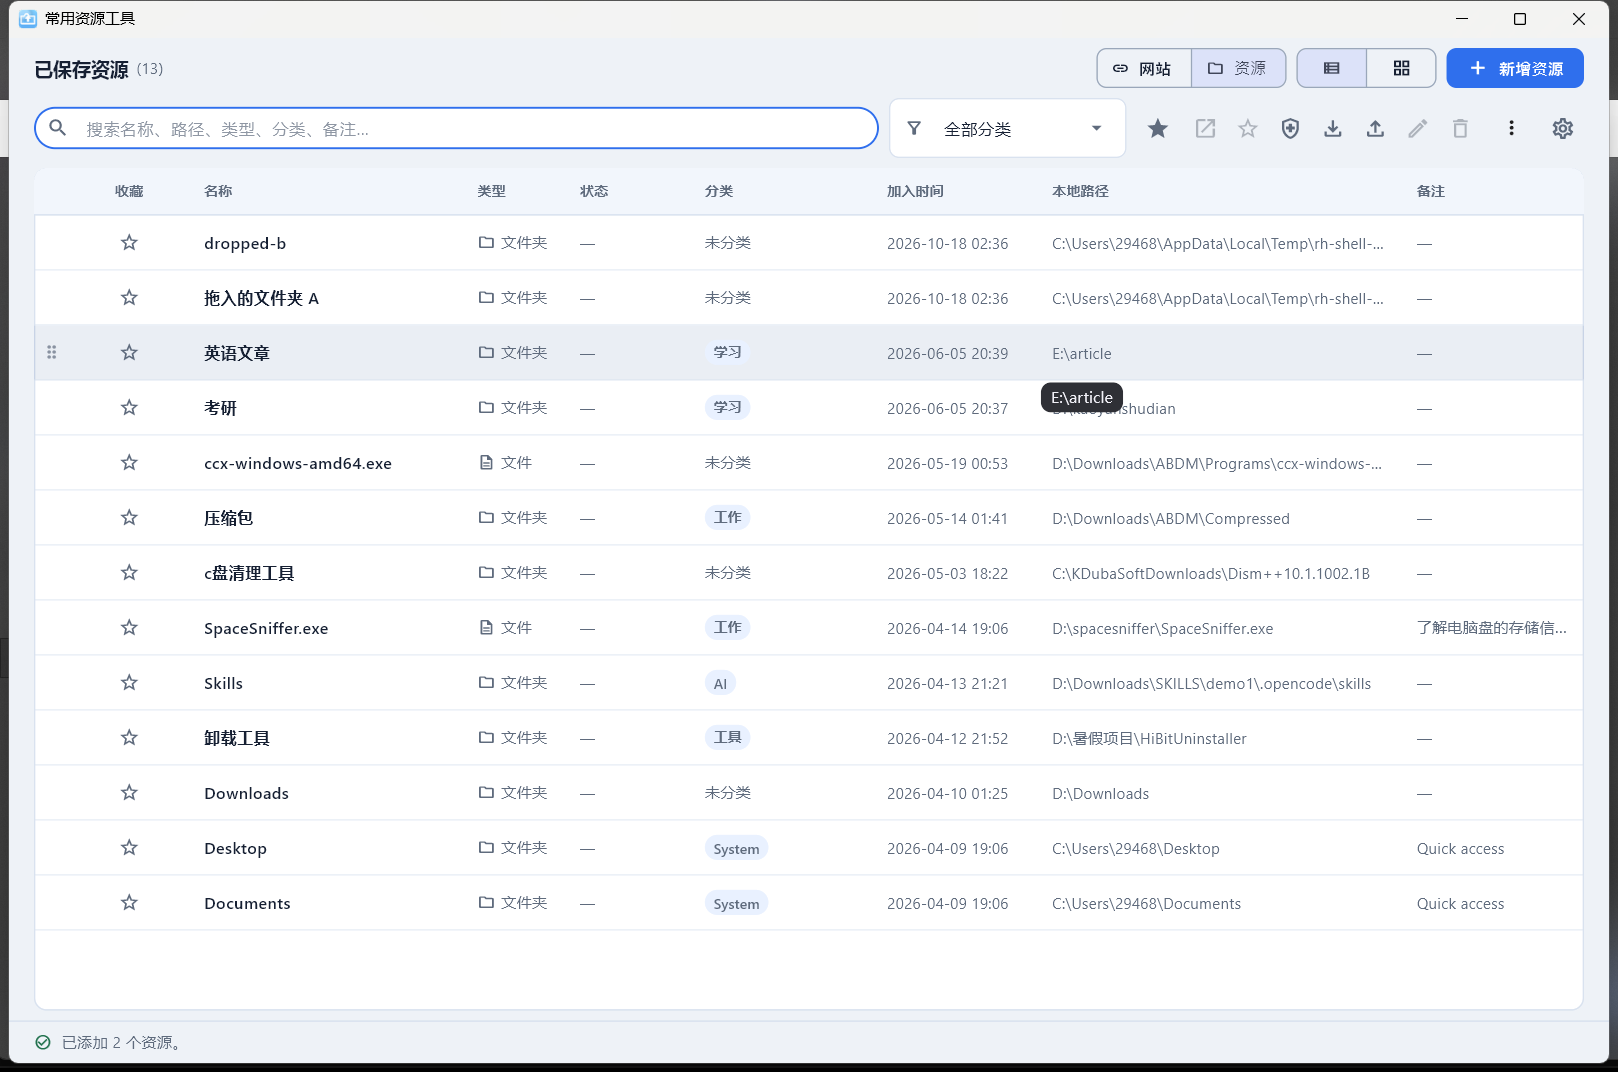
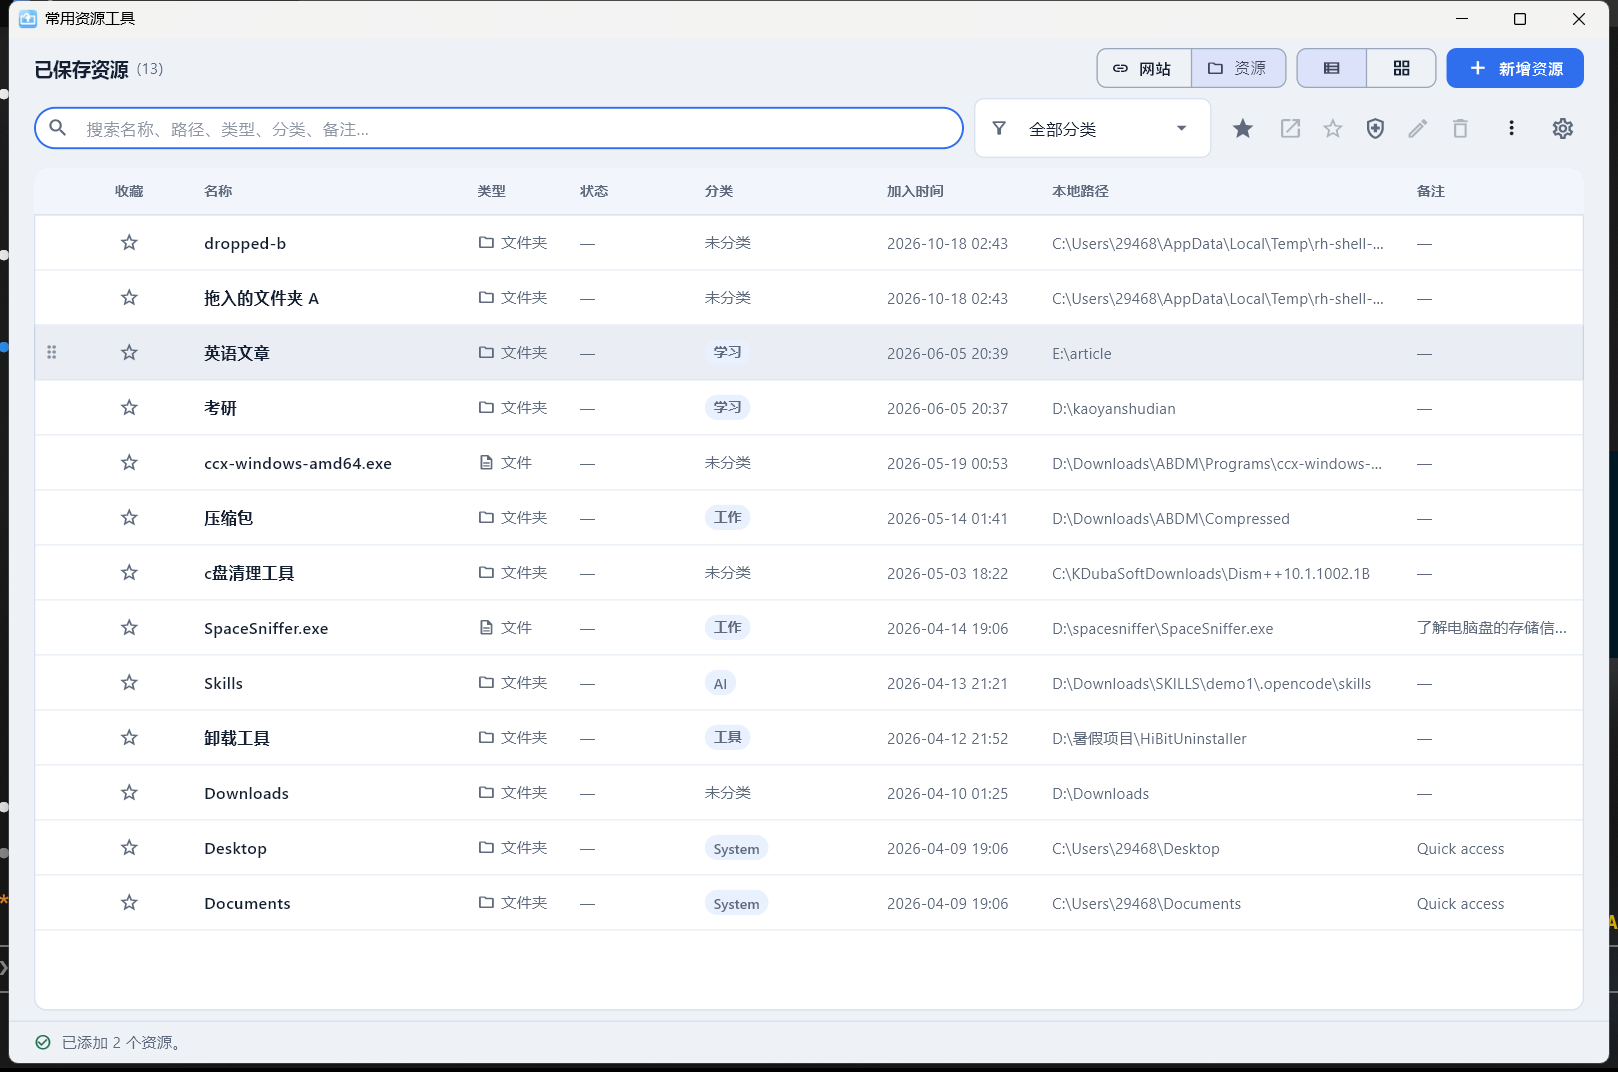
refactor: move export/import from the toolbar into the overflow menu
The two standalone backup icons were visual clutter, so the toolbar keeps only
open/favorite/check/edit/delete plus the overflow and settings buttons. Export
and import are still available in the overflow menu (sort by date added,
divider, export, import) and reuse the same dialogs and API.

Tests: the toolbar test now asserts the two tooltips are gone and both entries
appear in the overflow menu; Flutter 50/50. Docs: phase11-toolbar-cleanup.md,
README/memory updates and toolbar/menu screenshots. Shell QA re-run 9/9.

diff --git a/app/lib/features/home/resource_list_panel.dart b/app/lib/features/home/resource_list_panel.dart
@@ -275,8 +275,6 @@ class ResourceListPanel extends StatelessWidget {
                 onCheckPaths: onCheckPaths,
                 onEdit: _hasSelection ? onEditSelected : null,
                 onDelete: _hasSelection ? onDeleteSelected : null,
-                onImport: onImport,
-                onExport: onExport,
               ),
               const SizedBox(width: AppSpacing.xs),
               PopupMenuButton<String>(
@@ -285,8 +283,13 @@ class ResourceListPanel extends StatelessWidget {
                 padding: EdgeInsets.zero,
                 splashRadius: 18,
                 onSelected: (String value) {
-                  if (value == 'sort_by_added') {
-                    onSortByAdded();
+                  switch (value) {
+                    case 'sort_by_added':
+                      onSortByAdded();
+                    case 'export':
+                      onExport();
+                    case 'import':
+                      onImport();
                   }
                 },
                 itemBuilder: (BuildContext context) => <PopupMenuEntry<String>>[
@@ -298,6 +301,33 @@ class ResourceListPanel extends StatelessWidget {
                         const SizedBox(width: AppSpacing.md),
                         Text(
                           t.tx('sort_by_added'),
+                          style: const TextStyle(fontSize: 13),
+                        ),
+                      ],
+                    ),
+                  ),
+                  const PopupMenuDivider(),
+                  PopupMenuItem<String>(
+                    value: 'export',
+                    child: Row(
+                      children: <Widget>[
+                        const Icon(Icons.file_download_outlined, size: 16),
+                        const SizedBox(width: AppSpacing.md),
+                        Text(
+                          t.t('export'),
+                          style: const TextStyle(fontSize: 13),
+                        ),
+                      ],
+                    ),
+                  ),
+                  PopupMenuItem<String>(
+                    value: 'import',
+                    child: Row(
+                      children: <Widget>[
+                        const Icon(Icons.file_upload_outlined, size: 16),
+                        const SizedBox(width: AppSpacing.md),
+                        Text(
+                          t.t('import'),
                           style: const TextStyle(fontSize: 13),
                         ),
                       ],
@@ -388,8 +418,6 @@ class _Toolbar extends StatelessWidget {
     required this.onCheckPaths,
     required this.onEdit,
     required this.onDelete,
-    required this.onImport,
-    required this.onExport,
   });
 
   final AppStrings t;
@@ -399,8 +427,6 @@ class _Toolbar extends StatelessWidget {
   final VoidCallback onCheckPaths;
   final VoidCallback? onEdit;
   final VoidCallback? onDelete;
-  final VoidCallback onImport;
-  final VoidCallback onExport;
 
   @override
   Widget build(BuildContext context) {
@@ -422,16 +448,6 @@ class _Toolbar extends StatelessWidget {
           icon: Icons.health_and_safety_outlined,
           tooltip: t.t('check_paths'),
           onPressed: onCheckPaths,
-        ),
-        ToolbarButton(
-          icon: Icons.file_download_outlined,
-          tooltip: t.t('export'),
-          onPressed: onExport,
-        ),
-        ToolbarButton(
-          icon: Icons.file_upload_outlined,
-          tooltip: t.t('import'),
-          onPressed: onImport,
         ),
         ToolbarButton(
           icon: Icons.edit_outlined,

diff --git a/app/test/widget_test.dart b/app/test/widget_test.dart
@@ -725,12 +725,18 @@ void main() {
     expect(AppTheme.light.colorScheme.primary, const Color(0xFF2F6FED));
   });
 
-  testWidgets('list toolbar exposes import and export entries',
+  testWidgets('backup export/import live in the overflow menu',
       (WidgetTester tester) async {
     await pumpApp(tester);
 
-    expect(find.byTooltip('导出'), findsOneWidget);
-    expect(find.byTooltip('导入'), findsOneWidget);
+    // The two standalone toolbar buttons were removed as visual clutter.
+    expect(find.byTooltip('导出'), findsNothing);
+    expect(find.byTooltip('导入'), findsNothing);
+
+    await tester.tap(find.byTooltip('更多操作'));
+    await tester.pumpAndSettle();
+    expect(find.text('导出'), findsOneWidget);
+    expect(find.text('导入'), findsOneWidget);
   });
 
   testWidgets('dropped paths are added through the api',

diff --git a/migration/phase11-toolbar-cleanup.md b/migration/phase11-toolbar-cleanup.md
@@ -1,0 +1,42 @@
+# Phase 11 — 工具栏精简（导出/导入移入「更多」菜单）
+
+- 日期：2026-10-18
+- 触发：用户截图导出/导入两个图标并反馈"这两没啥用吧 删了吧"
+- 范围：只改工具栏入口；导入/导出功能本身保留
+
+---
+
+## 1. 变更
+
+- 从第二行工具栏的 `_Toolbar` 中删除两个独立按钮：
+  `file_download_outlined`（导出）、`file_upload_outlined`（导入）。
+- 功能不删除，移动到同一行的 `⋮`（更多操作）菜单里：
+
+```
+⋮
+├─ 按添加时间排序
+├─ ─────────────
+├─ 导出
+└─ 导入
+```
+
+- 菜单项复用原 `onExport` / `onImport` 回调（仍是原来的 JSON 备份对话框），没有新增业务逻辑。
+- 工具栏现在只剩：打开、收藏、检测路径、编辑、删除 + `⋮` + 设置齿轮，右侧更干净，搜索框能拿到更多宽度。
+
+## 2. 验证
+
+| 项 | 结果 |
+|---|---|
+| `flutter analyze` | 0 issue |
+| Flutter 测试 | **50 / 50**（原"工具栏暴露导出/导入"测试改写为：工具栏不再有这两个 tooltip，打开 `⋮` 菜单能看到「导出 / 导入」） |
+| 最小窗口 1180×760 | 无溢出（工具栏更短） |
+| 实机 | 工具栏截图 + `⋮` 菜单截图；`verify_shell.py` 9/9 PASS |
+| 发布包 | 47.9 MB，合并进 `release\ResourceHub-Desktop-20261017-1835\`，用户数据未变 |
+
+截图：`phase11-toolbar.png`（精简后的工具栏）、`phase11-menu.png`（更多菜单里的导出/导入）。
+
+## 3. 取舍
+
+- 导出/导入只是入口变深，不是删除；如果确认完全不需要 JSON 备份，可以再删掉菜单项、`_exportCollection` /
+  `_importCollection` 以及后端 `resources.export/import`（目前保留是为了数据迁移和回滚）。
+- `⋮` 菜单现在同时承载排序和备份两个低频操作，符合"低频进菜单"的 Material 3 习惯。

diff --git a/migration/README.md b/migration/README.md
@@ -16,6 +16,7 @@
 | [`phase8-drag-reorder.md`](phase8-drag-reorder.md) | 手动拖动排序：数组顺序即顺序、一次性迁移、列表/网格拖拽、撤销、按时间重排 |
 | [`phase9-folder-preview.md`](phase9-folder-preview.md) | 右侧详情面板：文件夹 mind map、懒加载展开、缩放/平移、添加为资源 |
 | [`phase10-no-top-bar.md`](phase10-no-top-bar.md) | 删除内容区 56px 顶部栏，设置入口移到工作区工具栏 |
+| [`phase11-toolbar-cleanup.md`](phase11-toolbar-cleanup.md) | 工具栏精简：导出/导入移入「更多」菜单 |
 | [`adr/ADR-001-tray-hotkey-ownership.md`](adr/ADR-001-tray-hotkey-ownership.md) | 托盘/热键归属、导入导出入口、数据覆盖风险 |
 | [`adr/ADR-002-native-shell-ownership.md`](adr/ADR-002-native-shell-ownership.md) | Windows 壳层归属（runner vs 后端） |
 
